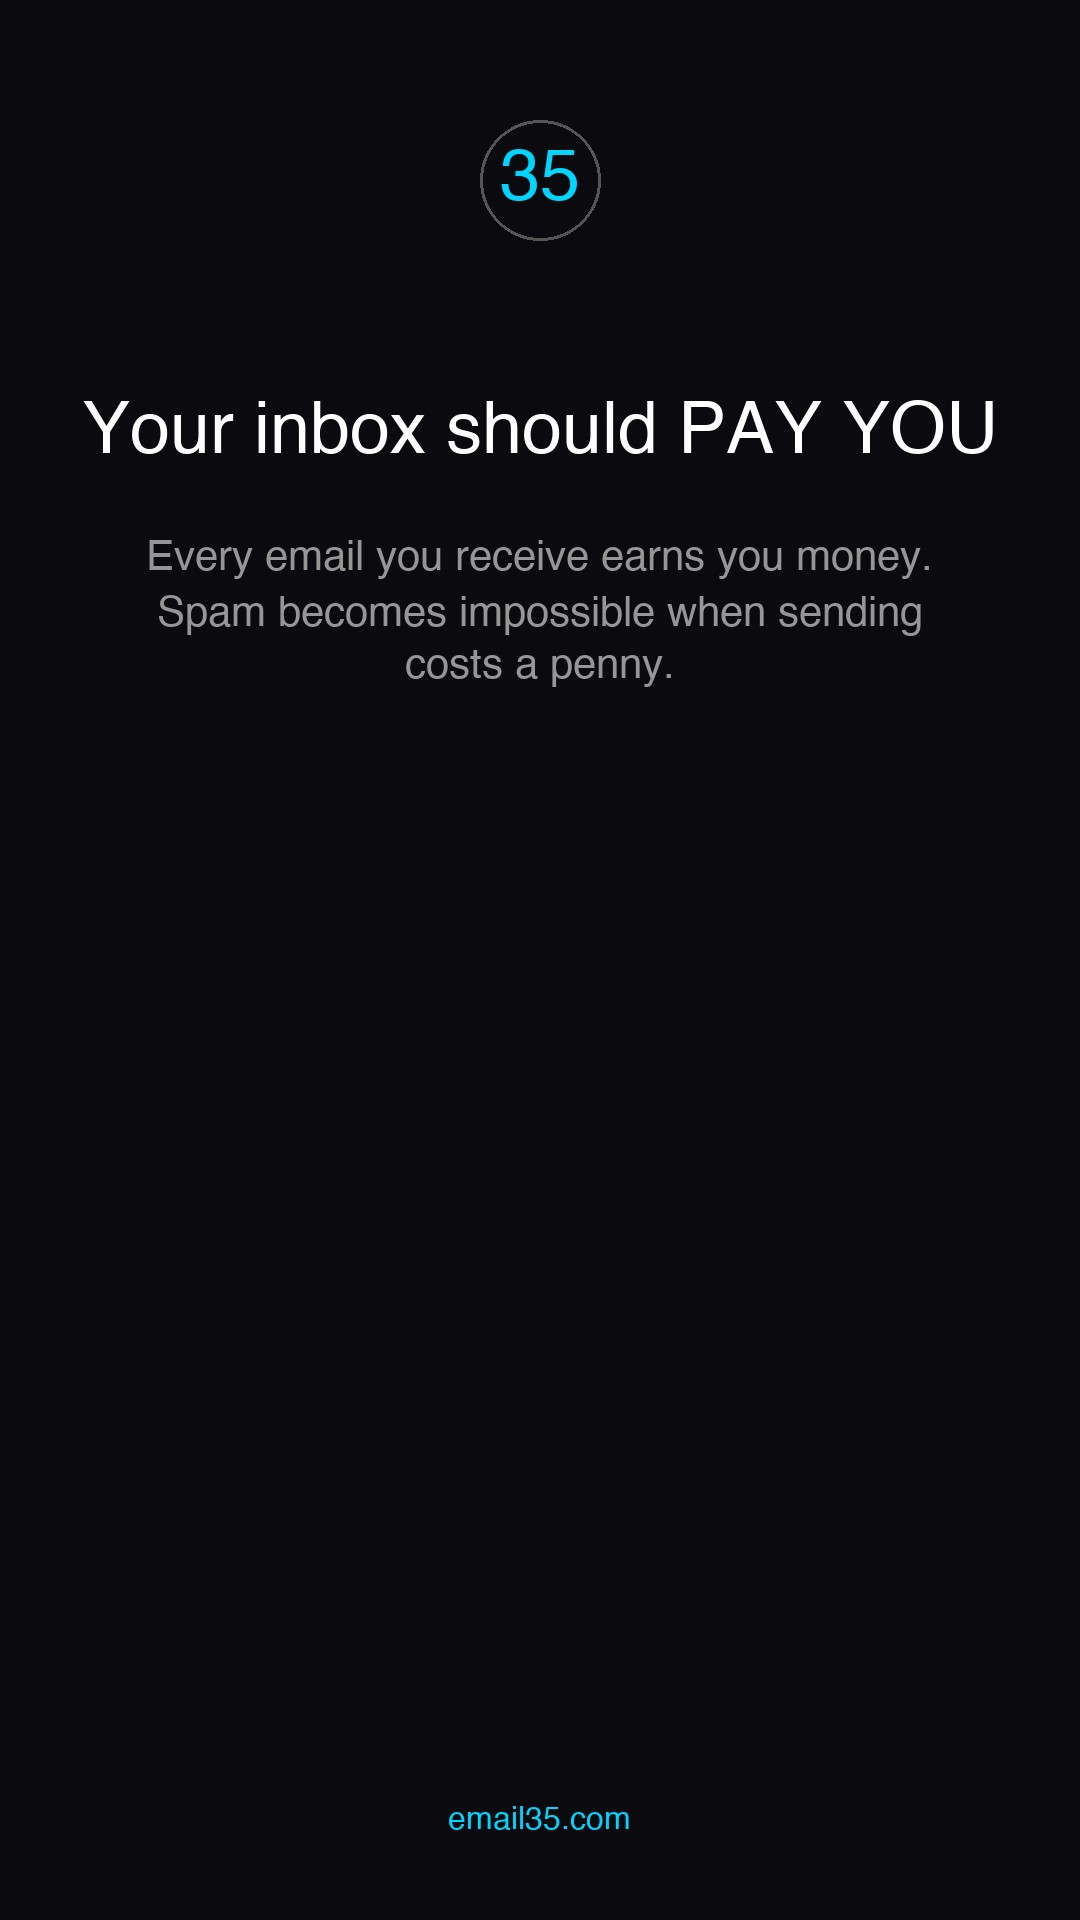
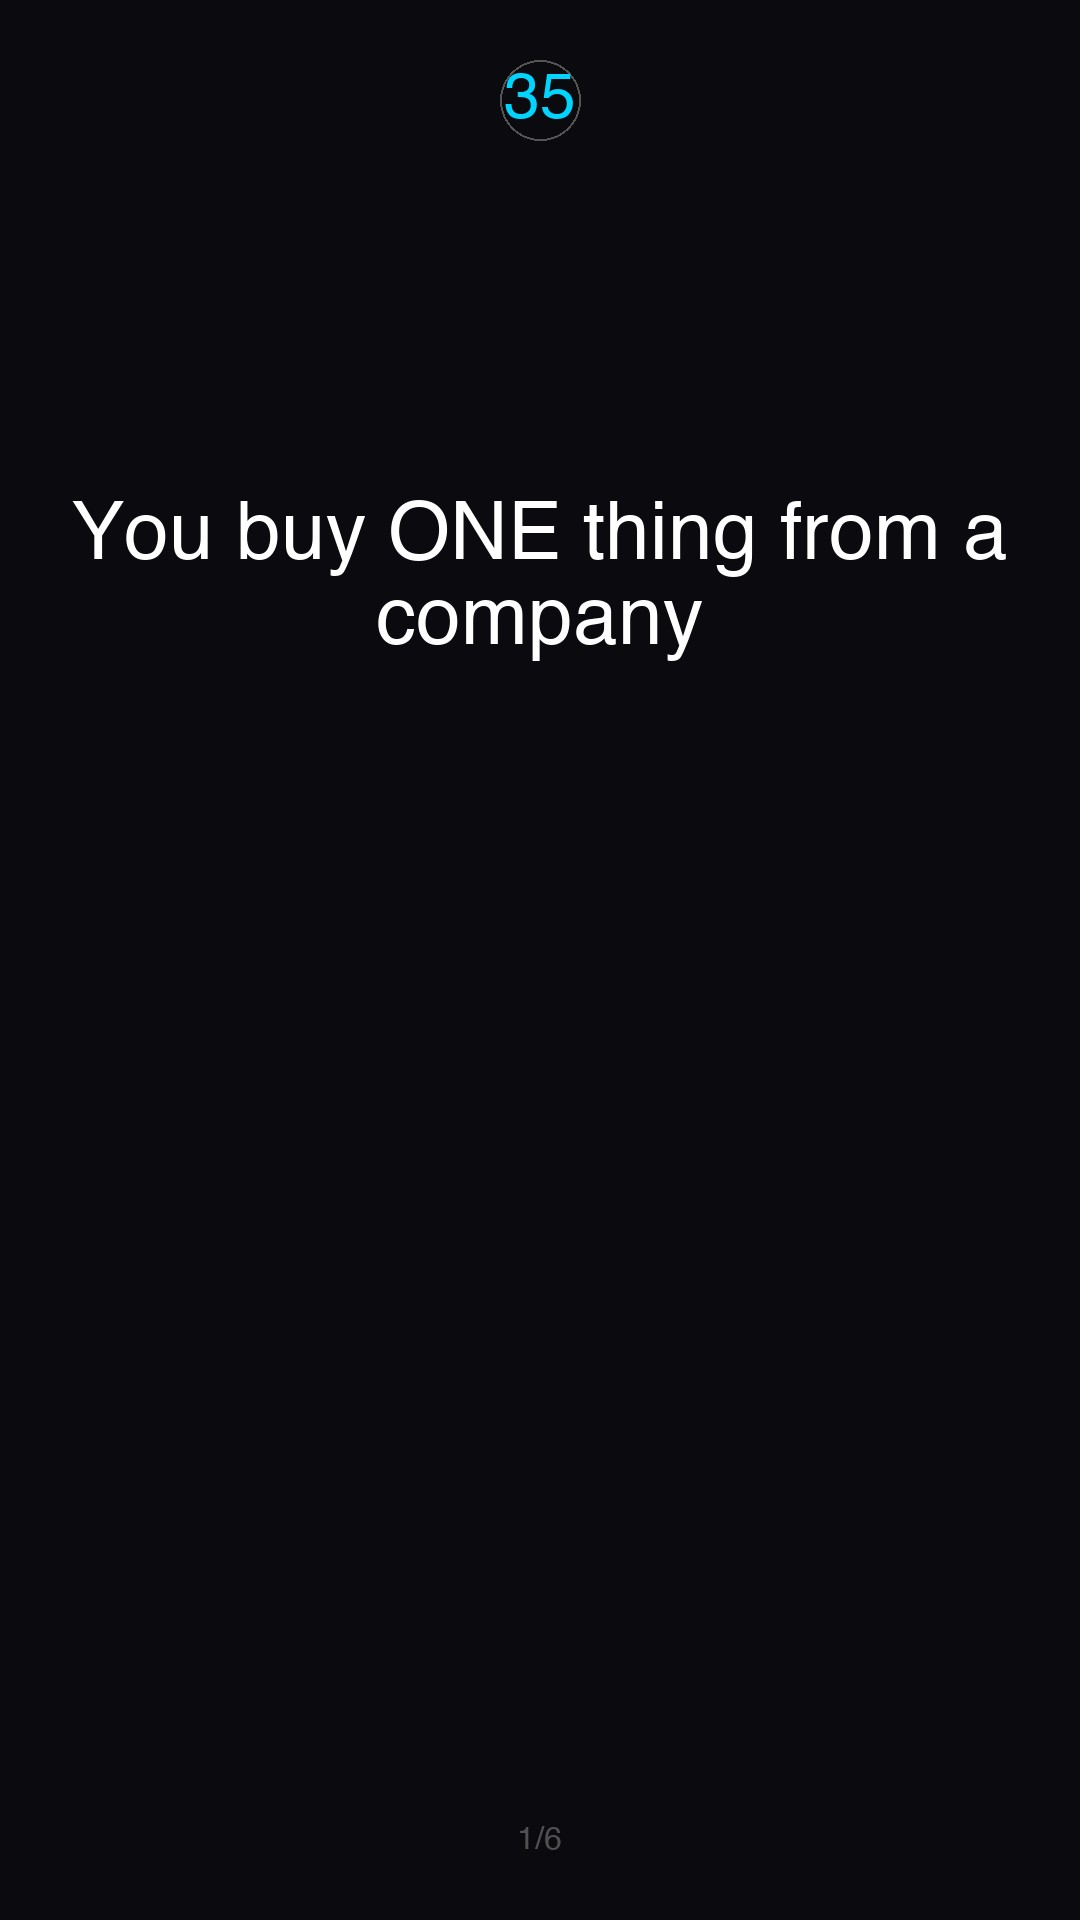
Content strategy: 7 humor posts, updated slide generator, 3 posts scheduled, daily humor cronjob

Changed region(s): [[0.0611, 0.1875, 0.9472, 0.375], [0.4583, 0.0312, 0.55, 0.125], [0.4278, 0.9375, 0.5806, 0.9688]]

diff --git a/social/make_slides.py b/social/make_slides.py
@@ -1,72 +1,118 @@
 from PIL import Image, ImageDraw, ImageFont
-import os
+import os, sys, json
 
 W, H = 1080, 1920
 
-def make_slide(text, subtitle, filename):
-    img = Image.new('RGB', (W, H), (10, 10, 15))
-    draw = ImageDraw.Draw(img)
-    
+def get_fonts():
     try:
-        title_font = ImageFont.truetype("/System/Library/Fonts/Helvetica.ttc", 72)
-        sub_font = ImageFont.truetype("/System/Library/Fonts/Helvetica.ttc", 42)
-        small_font = ImageFont.truetype("/System/Library/Fonts/Helvetica.ttc", 32)
+        title = ImageFont.truetype("/System/Library/Fonts/Helvetica.ttc", 64)
+        body = ImageFont.truetype("/System/Library/Fonts/Helvetica.ttc", 52)
+        small = ImageFont.truetype("/System/Library/Fonts/Helvetica.ttc", 32)
+        big = ImageFont.truetype("/System/Library/Fonts/Helvetica.ttc", 80)
     except:
-        title_font = ImageFont.load_default()
-        sub_font = title_font
-        small_font = title_font
-    
-    # Logo
-    draw.ellipse([W//2-60, 120, W//2+60, 240], outline=(85,85,85), width=3)
-    draw.text((W//2, 180), "35", fill=(0,212,255), font=title_font, anchor="mm")
-    
-    # Title
-    y = 400
+        title = body = small = big = ImageFont.load_default()
+    return title, body, small, big
+
+def wrap_text(draw, text, font, max_width):
     words = text.split()
     lines, current = [], ""
     for word in words:
         test = (current + " " + word).strip()
-        bbox = draw.textbbox((0,0), test, font=title_font)
-        if bbox[2] > W - 120:
-            lines.append(current)
+        bbox = draw.textbbox((0,0), test, font=font)
+        if bbox[2] > max_width:
+            if current: lines.append(current)
             current = word
         else:
             current = test
     if current: lines.append(current)
-    
-    for line in lines:
-        draw.text((W//2, y), line, fill=(255,255,255), font=title_font, anchor="mt")
-        y += 90
-    
-    # Subtitle
-    y += 50
-    for sub_line in subtitle.split("\n"):
-        words = sub_line.split()
-        sub_lines, current = [], ""
-        for word in words:
-            test = (current + " " + word).strip()
-            bbox = draw.textbbox((0,0), test, font=sub_font)
-            if bbox[2] > W - 100:
-                sub_lines.append(current)
-                current = word
-            else:
-                current = test
-        if current: sub_lines.append(current)
-        for line in sub_lines:
-            draw.text((W//2, y), line, fill=(150,150,150), font=sub_font, anchor="mt")
-            y += 55
-    
-    draw.text((W//2, H-100), "email35.com", fill=(0,212,255), font=small_font, anchor="mm")
-    img.save(filename, "JPEG", quality=90)
-    print(f"Created {filename}")
+    return lines
 
-base = os.path.expanduser("~/email35/social")
-os.makedirs(base, exist_ok=True)
+def make_slide(text, subtitle="", slide_num=0, total=0, is_hook=False, is_cta=False):
+    img = Image.new('RGB', (W, H), (10, 10, 15))
+    draw = ImageDraw.Draw(img)
+    title_font, body_font, small_font, big_font = get_fonts()
 
-make_slide("Your inbox should PAY YOU", "Every email you receive earns you money.\nSpam becomes impossible when sending\ncosts a penny.", f"{base}/slide1.jpg")
-make_slide("Spam costs $0 to send. That's the problem.", "Email35 makes senders pay $0.01\nto reach you. Spammers can't\nafford to spam you.", f"{base}/slide2.jpg")
-make_slide("How it works", "1. Get yourname@email35.com\n2. Share it everywhere\n3. Senders pay $0.01 to deliver\n4. Paid emails go to your real inbox", f"{base}/slide3.jpg")
-make_slide("100 emails = $1/day = $365/year", "For doing nothing.\nYour attention has value.\nStop giving it away for free.", f"{base}/slide4.jpg")
-make_slide("Get your free address now", "email35.com\nYour inbox, spam-free.", f"{base}/slide5.jpg")
+    # Logo at top
+    draw.ellipse([W//2-40, 60, W//2+40, 140], outline=(85,85,85), width=2)
+    draw.text((W//2, 100), "35", fill=(0,212,255), font=title_font, anchor="mm")
 
-print("All slides done!")
+    if is_hook:
+        # Hook slide — big text, eye-catching
+        y = 500
+        lines = wrap_text(draw, text, big_font, W - 120)
+        for line in lines:
+            draw.text((W//2, y), line, fill=(255,255,255), font=big_font, anchor="mt")
+            y += 100
+        if subtitle:
+            y += 30
+            sub_lines = wrap_text(draw, subtitle, body_font, W - 100)
+            for line in sub_lines:
+                draw.text((W//2, y), line, fill=(200,200,200), font=body_font, anchor="mt")
+                y += 65
+    elif is_cta:
+        # CTA slide — cyan accent
+        y = 600
+        lines = wrap_text(draw, text, title_font, W - 120)
+        for line in lines:
+            draw.text((W//2, y), line, fill=(0,212,255), font=title_font, anchor="mt")
+            y += 80
+        if subtitle:
+            y += 20
+            draw.text((W//2, y), subtitle, fill=(150,150,150), font=small_font, anchor="mt")
+    else:
+        # Content slide — body text, centered
+        y = 600
+        lines = wrap_text(draw, text, body_font, W - 100)
+        total_height = len(lines) * 65
+        y = (H - total_height) // 2
+        for line in lines:
+            draw.text((W//2, y), line, fill=(230,230,240), font=body_font, anchor="mt")
+            y += 65
+
+    # Slide counter
+    if total > 0:
+        draw.text((W//2, H-80), f"{slide_num}/{total}", fill=(80,80,80), font=small_font, anchor="mm")
+
+    # CTA on last slide
+    if is_cta:
+        draw.text((W//2, H-80), "email35.com", fill=(0,212,255), font=small_font, anchor="mm")
+
+    return img
+
+def generate_post(post_data, output_dir):
+    """Generate slides from post data dict with 'slides' list."""
+    os.makedirs(output_dir, exist_ok=True)
+    slides = post_data.get("slides", [])
+    total = len(slides)
+    
+    for i, slide in enumerate(slides):
+        is_hook = (i == 0)
+        is_cta = (i == total - 1)
+        text = slide.get("text", slide) if isinstance(slide, dict) else slide
+        subtitle = slide.get("subtitle", "") if isinstance(slide, dict) else ""
+        
+        img = make_slide(text, subtitle, i+1, total, is_hook=is_hook, is_cta=is_cta)
+        path = os.path.join(output_dir, f"slide{i+1}.jpg")
+        img.save(path, "JPEG", quality=90)
+    
+    print(f"Generated {total} slides in {output_dir}")
+
+# Default: generate from command line JSON or use built-in post
+if __name__ == "__main__":
+    if len(sys.argv) > 1 and os.path.exists(sys.argv[1]):
+        with open(sys.argv[1]) as f:
+            post = json.load(f)
+        generate_post(post, os.path.expanduser("~/email35/social"))
+    else:
+        # Default post — The Audacity
+        post = {
+            "slides": [
+                "You buy ONE thing from a company",
+                "Their email team: noted. Deploying 47 emails about spatulas.",
+                "Also spatula accessories. Spatula insurance. Spatula newsletter.",
+                "You hit unsubscribe.",
+                "Them: how about emails about FORKS instead",
+                {"text": "What if every email cost them $0.01?", "subtitle": "Suddenly they'd learn restraint. email35.com"}
+            ]
+        }
+        generate_post(post, os.path.expanduser("~/email35/social"))

diff --git a/social/content_calendar.md b/social/content_calendar.md
@@ -1,0 +1,73 @@
+# Email35 Content Calendar — Week 1
+# Voice: dry, sarcastic, adult humor. Think deadpan delivery.
+
+## POST 1 — The Audacity
+Hook: "Companies when you buy one thing from them"
+Slides:
+1. "You buy a $4 spatula from Amazon"
+2. "Amazon: noted. Sending you 47 emails about spatulas"
+3. "Also spatula accessories. Spatula insurance. Spatula newsletter."
+4. "You hit unsubscribe"
+5. "Amazon: how about emails about FORKS instead"
+6. "With email35 they'd have to pay $0.01 per email. Suddenly they'd learn restraint. email35.com"
+
+## POST 2 — The Recruiter
+Hook: "LinkedIn recruiters in your inbox"
+Slides:
+1. "Hi [FIRST NAME], I came across your profile and—"
+2. "I didn't read your profile"
+3. "I don't know what you do"
+4. "This job pays 40% less than what you make"
+5. "But I will email you every 3 days until heat death of the universe"
+6. "Unless it costs them $0.01 each time. email35.com"
+
+## POST 3 — The Unsubscribe
+Hook: "The 5 stages of unsubscribing"
+Slides:
+1. "Stage 1: Click unsubscribe"
+2. "Stage 2: 'Are you sure?' Yes I'm sure."
+3. "Stage 3: 'It may take 10 business days.' TEN?"
+4. "Stage 4: Get the same email 3 days later"
+5. "Stage 5: Acceptance. This is your life now."
+6. "Or just use an email that charges senders. Problem solved. email35.com"
+
+## POST 4 — The Reply All
+Hook: "Reply all should require a $0.01 fee"
+Slides:
+1. "Someone reply-alls 400 people: 'Thanks!'"
+2. "Then someone reply-alls: 'Please remove me from this thread'"
+3. "Then 12 people reply-all: 'STOP REPLYING ALL'"
+4. "Then Karen from accounting shares a cake recipe"
+5. "If reply-all cost a penny per recipient that's $4 per message"
+6. "Karen would think twice. email35.com"
+
+## POST 5 — The Newsletter Regret
+Hook: "Things I subscribed to at 2am that I now regret"
+Slides:
+1. "A newsletter about productivity. Ironic."
+2. "A crypto newsletter. It's all scams."
+3. "5 different cooking newsletters. I eat cereal."
+4. "A meditation newsletter. The notifications give me anxiety."
+5. "A newsletter about having too many newsletters."
+6. "My inbox is a graveyard of 2am decisions. email35.com"
+
+## POST 6 — The Math
+Hook: "Let's do the math on spam"
+Slides:
+1. "300 billion emails sent per day"
+2. "Half are spam. 150 BILLION."
+3. "Cost to send each one: $0.00"
+4. "That's the problem."
+5. "If spam cost $0.01 per email:"
+6. "$1.5 billion PER DAY. Nobody's paying that."
+7. "Spam dies instantly. email35.com"
+
+## POST 7 — The Corporate Signature
+Hook: "Corporate email signatures be like"
+Slides:
+1. "Best regards,"
+2. "John Smith"
+3. "Senior Vice President of Paper Distribution"
+4. "Direct: 555-0142 | Mobile: 555-0143 | Fax: 555-0144"
+5. "[3 different logos] [legal disclaimer longer than the email] [diversity statement] [carbon footprint notice] [please consider the environment before printing this email]"
+6. "The signature has more content than the email. At least with email35 you get paid to read it. email35.com"
